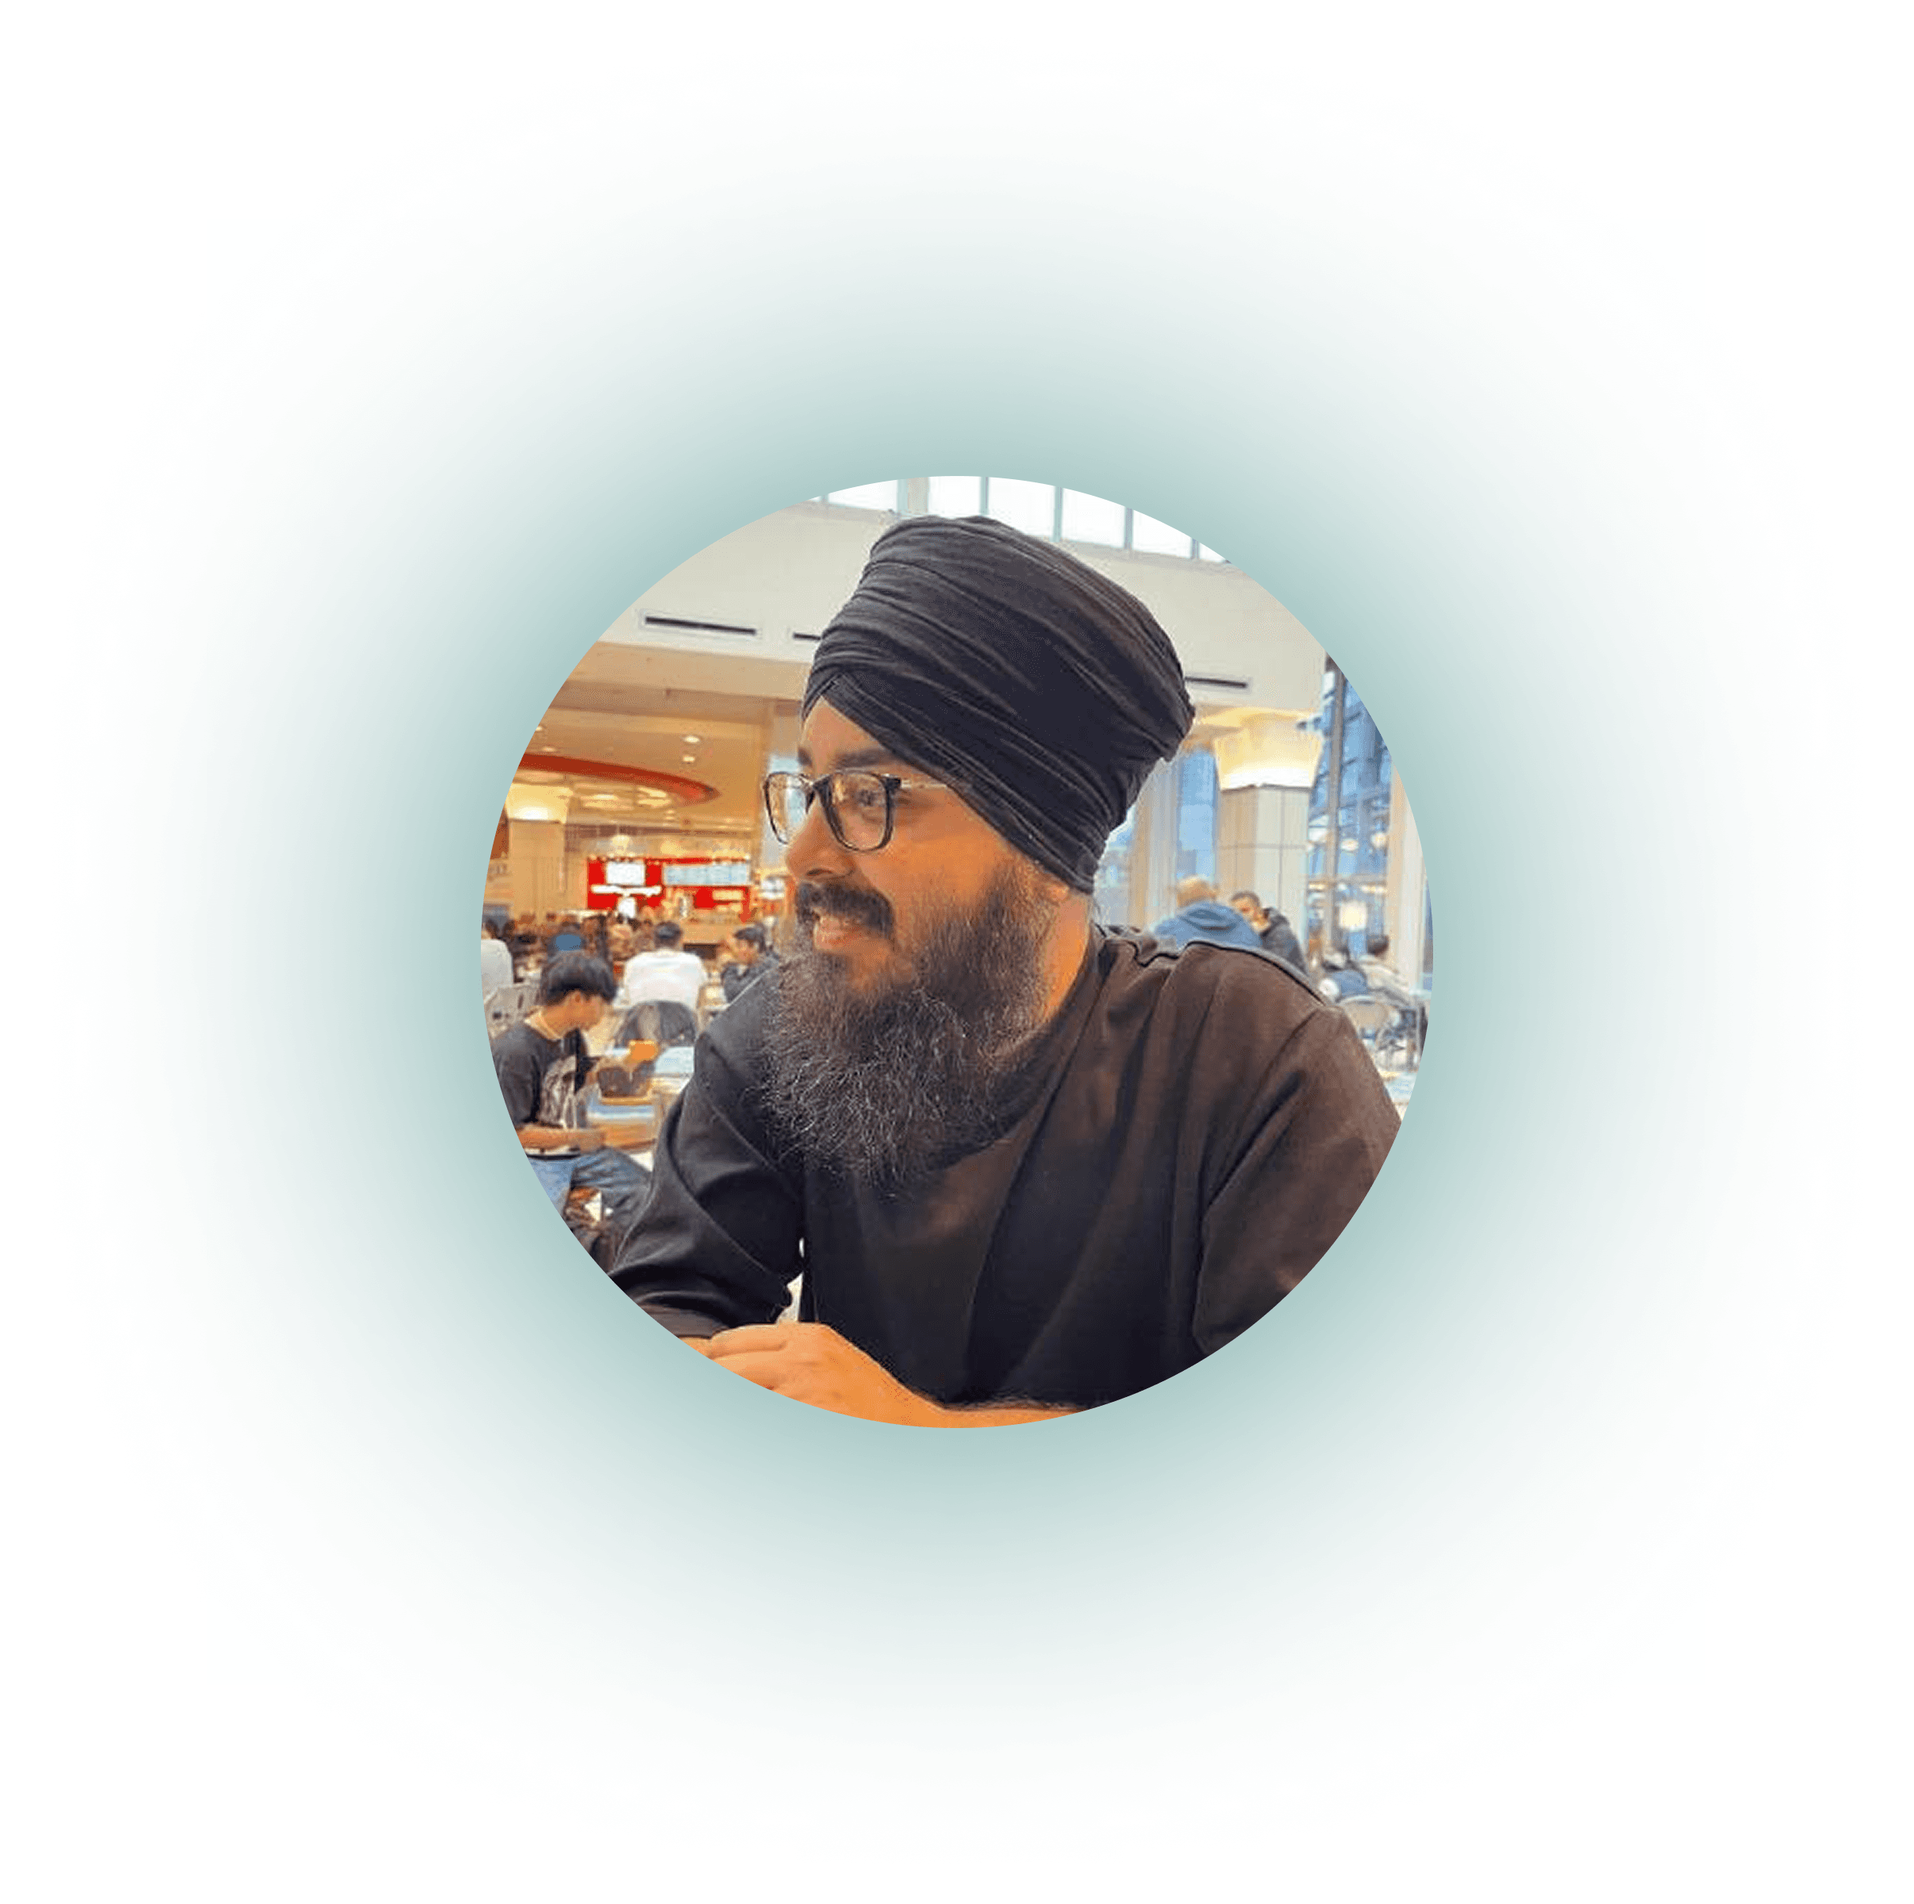
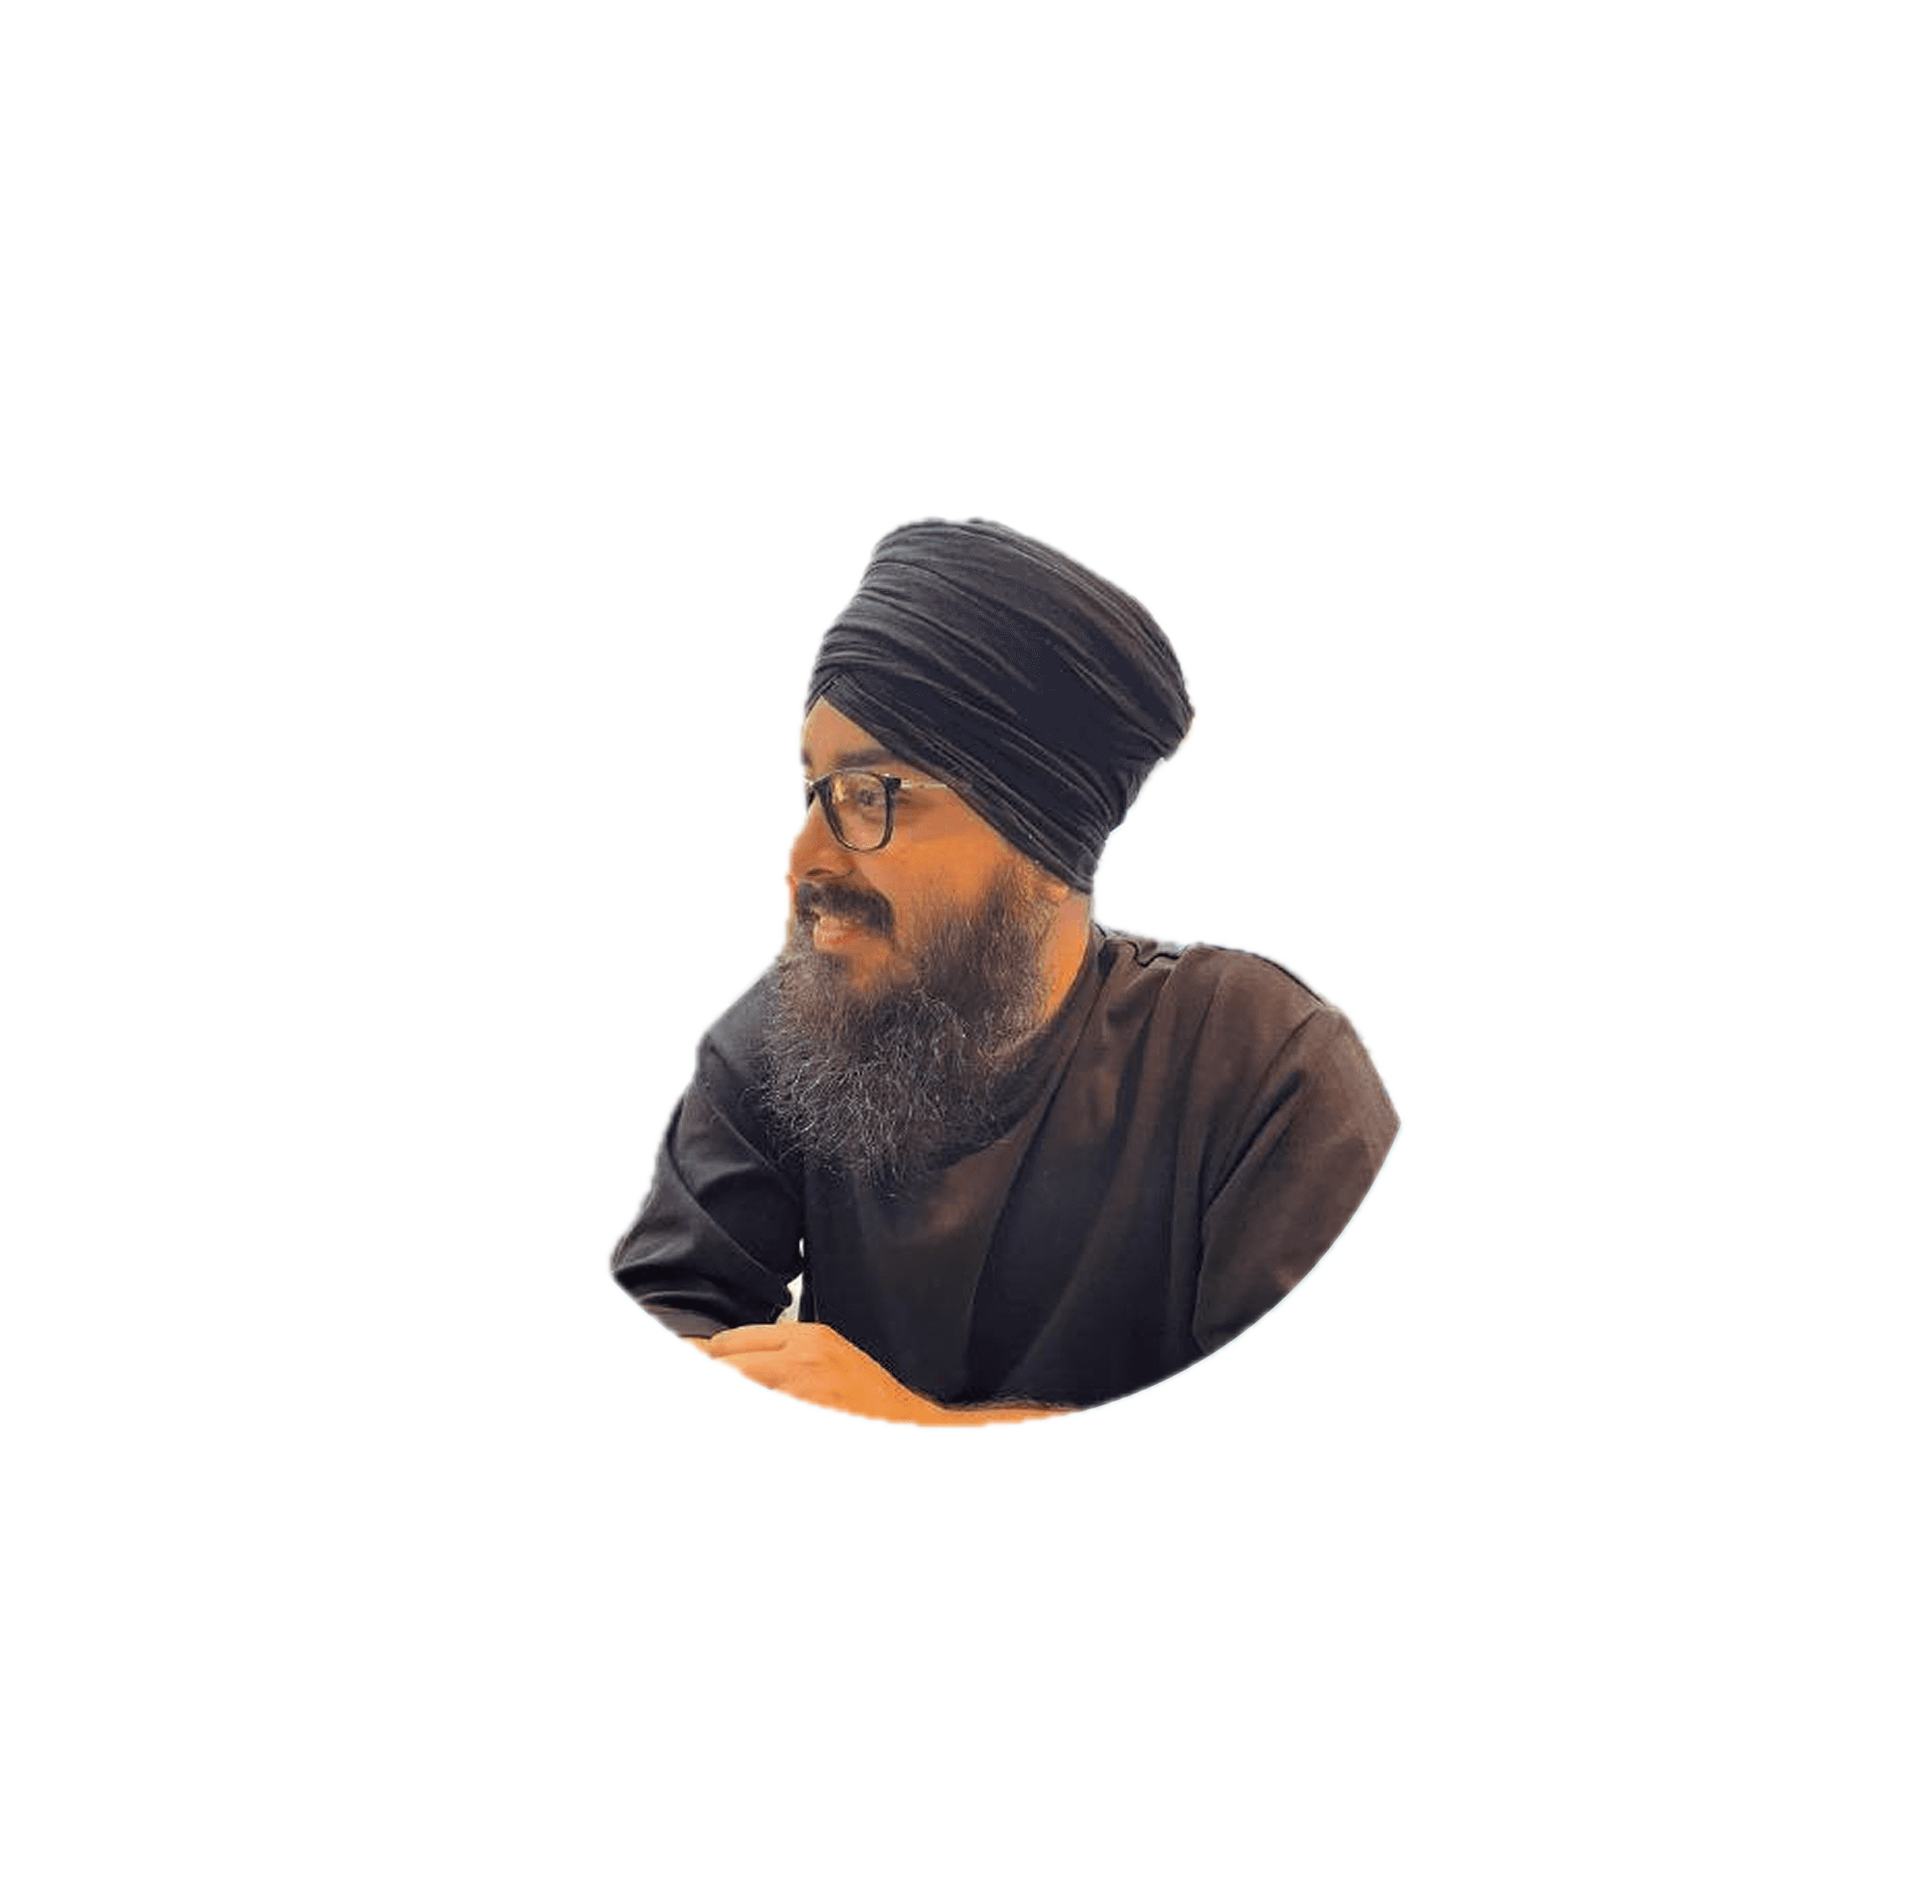
Build Team section, Create TeamCard component, Remove picture backgrounds

Changed region(s): [[0.1244, 0.125, 0.8706, 0.875]]

diff --git a/src/components/TeamCard/index.tsx b/src/components/TeamCard/index.tsx
@@ -1,0 +1,72 @@
+import { Emoji, Github, Linkedin } from 'iconoir-react';
+import { TEAM } from '../../constants';
+
+type Member = (typeof TEAM.members)[0];
+
+const TeamCard = ({ member }: { member: Member }) => {
+  return (
+    <div className="relative w-[250px] md:w-[200px] lg:w-[30%] flex flex-col items-center group">
+      {/* Image */}
+      <img
+        src={member.image.src}
+        alt={member.image.alt}
+        className="rounded-full w-80 h-80 object-cover mb-3 transition-transform duration-300 group-hover:scale-105 lg:w-100 lg:h-100"
+      />
+
+      {/* Overlay on hover for large screens */}
+      <div className="absolute top-0 left-0 w-full h-full bg-white bg-opacity-95 p-4 flex flex-col justify-center items-center text-center rounded-[25px] opacity-0 lg:group-hover:opacity-100 transition-opacity duration-300">
+        <h3 className="text-tertiary font-bold tracking-wider text-2xl">{member.name}</h3>
+        <h3 className="text-primary">{member.role}</h3>
+        <p className="text-secondary mt-5">{member.bio}</p>
+        {member.bio2 && <p className="text-secondary mt-5">{member.bio2}</p>}
+      </div>
+
+      {/* Info for small screens and default view on large screens */}
+      <div className="flex flex-col items-center transition-opacity duration-300 lg:group-hover:opacity-0">
+        <h3 className="text-tertiary font-bold tracking-wider">{member.name}</h3>
+        <h3 className="text-primary">{member.role}</h3>
+        <div className="flex justify-center items-center gap-4 my-2">
+          {member.links.linkedin && (
+            <a
+              href={member.links.linkedin}
+              target="_blank"
+              rel="noopener noreferrer"
+              className="border border-primary rounded-full p-1"
+            >
+              <Linkedin width={20} height={20} />
+            </a>
+          )}
+          {member.links.github && (
+            <a
+              href={member.links.github}
+              target="_blank"
+              rel="noopener noreferrer"
+              className="border border-primary rounded-full p-1"
+            >
+              <Github width={20} height={20} />
+            </a>
+          )}
+          {member.links.portfolio && (
+            <a
+              href={member.links.portfolio}
+              target="_blank"
+              rel="noopener noreferrer"
+              className="border border-primary rounded-full flex justify-center items-center px-3 py-1 gap-1"
+            >
+              <Emoji width={20} height={20} />
+              {' Portfolio'}
+            </a>
+          )}
+        </div>
+      </div>
+
+      {/* Always show bio on small screens */}
+      <div className="lg:hidden text-center mt-2">
+        <p className="text-secondary">{member.bio}</p>
+        {member.bio2 && <p className="text-secondary mt-1">{member.bio2}</p>}
+      </div>
+    </div>
+  );
+};
+
+export default TeamCard;

diff --git a/src/constants/index.ts b/src/constants/index.ts
@@ -144,11 +144,12 @@ export const TEAM = {
   title: 'Meet the Team',
   description:
     'With a shared goal of bringing more intention to professional networking, we’re a small, but passionate team of builders reimagining the networking experience from the ground up.',
-  items: [
+  members: [
     {
       name: 'Shadman Hossain',
       role: 'Backend Engineer & Co-Founder',
       bio: "Shadman leads Twiine's backend, database, and security development, ensuring smooth operations and excellent user experience.",
+      bio2: 'With a strong software engineering background, he collaborates closely with the team to deliver secure, user-focused solutions.',
       links: {
         linkedin: 'https://www.linkedin.com/in/shadman-hossain-30b9a2228/',
         github: 'https://github.com/shadmanh123',
@@ -160,6 +161,7 @@ export const TEAM = {
       name: 'Jaskaran Singh',
       role: 'Frontend Engineer & Co-Founder',
       bio: 'Jaskaran brings Twiine to life through clean, responsive, and intuitive frontend development.',
+      bio2: 'With a focus on seamless interactions and accessibility, he ensures the platform feels smooth and intentional across every device.',
       links: {
         linkedin: 'https://www.linkedin.com/in/thecodersingh/',
         github: 'https://github.com/TheCoderSingh',
@@ -170,7 +172,8 @@ export const TEAM = {
     {
       name: 'Neharika Sidda',
       role: 'UX Designer & Co-Founder',
-      bio: 'Neharika leads design at Twiine, shaping everything from brand identity to user experience. Bringing a communication design background and a passion for designing human-centered experiences, she designs every detail of Twiine with care.',
+      bio: 'Neharika leads design at Twiine, shaping everything from brand identity to user experience.',
+      bio2: 'Bringing a communication design background and a passion for designing human-centered experiences, she designs every detail of Twiine with care.',
       links: {
         linkedin: 'https://www.linkedin.com/in/neharikasidda/',
         portfolio: 'https://www.neharikasidda.com/',

diff --git a/src/components/Team/index.tsx b/src/components/Team/index.tsx
@@ -1,5 +1,24 @@
+import { TEAM } from '../../constants';
+import TeamCard from '../TeamCard';
+import Title from '../Title';
+
 const Team = () => {
-  return <div>Team</div>;
+  return (
+    <section className="text-center mt-36 mb-14 md:w-[80%] lg:w-[70%] mx-auto">
+      <Title icon="Group" text="Team" />
+
+      <div className="mt-5 w-[90%] mx-auto">
+        <h2 className="text-tertiary text-3xl tracking-tighter font-medium">{TEAM.title}</h2>
+        <p className="mt-4 text-secondary">{TEAM.description}</p>
+      </div>
+
+      <div className="flex flex-wrap justify-center items-center gap-10 mt-8">
+        {TEAM.members.map((member, index) => (
+          <TeamCard key={index} member={member} />
+        ))}
+      </div>
+    </section>
+  );
 };
 
 export default Team;
